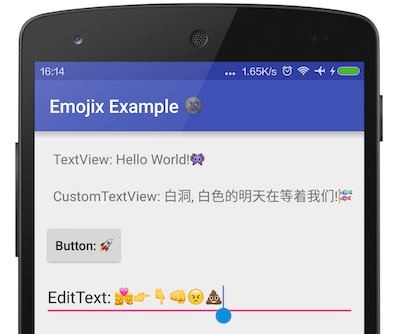
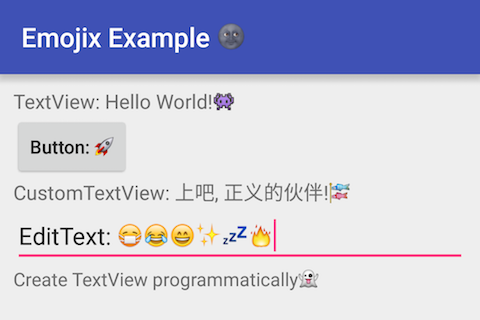
Add wrapView function

diff --git a/lib-emojix/src/main/java/cn/nekocode/emojix/Emojix.java b/lib-emojix/src/main/java/cn/nekocode/emojix/Emojix.java
@@ -17,6 +17,9 @@ package cn.nekocode.emojix;
 
 import android.content.Context;
 import android.view.LayoutInflater;
+import android.view.View;
+import android.view.ViewGroup;
+import android.widget.TextView;
 
 /**
  * @author nekocode (nekocode.cn@gmail.com)
@@ -43,5 +46,38 @@ public class Emojix {
 
     public static android.content.ContextWrapper wrap(Context base) {
         return new ContextWrapper(base);
+    }
+
+    public static void wrapView(View view) {
+        if (view == null) return;
+
+        if (view instanceof TextView) {
+            TextView textView = (TextView) view;
+            if (textView.getTag(R.id.tag_emojix_watcher) == null) {
+                EmojixTextWatcher watcher = new EmojixTextWatcher(textView);
+                textView.addTextChangedListener(watcher);
+
+                textView.setTag(R.id.tag_emojix_watcher, watcher);
+            }
+
+        } else if (view instanceof ViewGroup) {
+            if (view.getTag(R.id.tag_layout_listener) == null) {
+                View.OnLayoutChangeListener listener = new View.OnLayoutChangeListener() {
+                    @Override
+                    public void onLayoutChange(View v, int left, int top, int right, int bottom,
+                                               int oldLeft, int oldTop, int oldRight, int oldBottom) {
+
+                        ViewGroup parentView = (ViewGroup) v;
+                        int len = parentView.getChildCount();
+                        for (int i = 0; i < len; i ++) {
+                            wrapView(parentView.getChildAt(i));
+                        }
+                    }
+                };
+                view.addOnLayoutChangeListener(listener);
+
+                view.setTag(R.id.tag_layout_listener, listener);
+            }
+        }
     }
 }

diff --git a/lib-emojix/src/main/java/cn/nekocode/emojix/EmojixLayoutInflater.java b/lib-emojix/src/main/java/cn/nekocode/emojix/EmojixLayoutInflater.java
@@ -22,7 +22,6 @@ import android.util.AttributeSet;
 import android.view.LayoutInflater;
 import android.view.View;
 import android.view.ViewGroup;
-import android.widget.TextView;
 
 import org.xmlpull.v1.XmlPullParser;
 
@@ -108,34 +107,7 @@ class EmojixLayoutInflater extends LayoutInflater {
 //        boolean useEmojix = a.getBoolean(R.styleable.Emojix_emoji, true);
 //        a.recycle();
 
-        if (view instanceof TextView) {
-            TextView textView = (TextView) view;
-            if (textView.getTag(R.id.tag_emojix_watcher) == null) {
-                EmojixTextWatcher watcher = new EmojixTextWatcher(textView);
-                textView.addTextChangedListener(watcher);
-
-                textView.setTag(R.id.tag_emojix_watcher, watcher);
-            }
-
-        } else if (view instanceof ViewGroup) {
-            if (view.getTag(R.id.tag_layout_listener) == null) {
-                View.OnLayoutChangeListener listener = new View.OnLayoutChangeListener() {
-                    @Override
-                    public void onLayoutChange(View v, int left, int top, int right, int bottom,
-                                               int oldLeft, int oldTop, int oldRight, int oldBottom) {
-
-                        ViewGroup parentView = (ViewGroup) v;
-                        int len = parentView.getChildCount();
-                        for (int i = 0; i < len; i ++) {
-                            onViewCreated(parentView.getChildAt(i), context, attrs);
-                        }
-                    }
-                };
-                view.addOnLayoutChangeListener(listener);
-
-                view.setTag(R.id.tag_layout_listener, listener);
-            }
-        }
+        Emojix.wrapView(view);
 
         return view;
     }

diff --git a/sample/src/main/java/cn/nekocode/emojix/sample/MainActivity.java b/sample/src/main/java/cn/nekocode/emojix/sample/MainActivity.java
@@ -5,6 +5,7 @@ import android.os.Bundle;
 import android.support.v7.app.AppCompatActivity;
 import android.widget.Button;
 import android.widget.EditText;
+import android.widget.LinearLayout;
 import android.widget.TextView;
 
 import cn.nekocode.emojix.Emojix;
@@ -18,20 +19,26 @@ public class MainActivity extends AppCompatActivity {
 
         setTitle("Emojix Example \uD83C\uDF1A");
 
+        LinearLayout linearLayout = (LinearLayout) findViewById(R.id.linearLayout);
         TextView textView = (TextView) findViewById(R.id.textView);
         CustomText customText = (CustomText) findViewById(R.id.textView2);
         EditText editText = (EditText) findViewById(R.id.editText);
         Button button = (Button) findViewById(R.id.button);
 
+        assert linearLayout != null;
         assert textView != null;
         assert customText != null;
         assert editText != null;
         assert button != null;
 
         textView.setText("TextView: Hello World!\uD83D\uDC7E");
-        customText.setText("CustomTextView: 白洞, 白色的明天在等着我们!\uD83C\uDF8F");
-        editText.setText("EditText: \uD83D\uDC8F\uD83D\uDC49\uD83D\uDC47\uD83D\uDC4A\uD83D\uDE20\uD83D\uDCA9");
+        customText.setText("CustomTextView: 上吧, 正义的伙伴!\uD83C\uDF8F");
+        editText.setText("EditText: \uD83D\uDE37\uD83D\uDE02\uD83D\uDE04✨\uD83D\uDCA4\uD83D\uDD25");
         button.setText("Button: \uD83D\uDE80");
+
+        TextView textView2 = new TextView(this);
+        textView2.setText("Create TextView programmatically\uD83D\uDC7B");
+        linearLayout.addView(textView2);
     }
 
     @Override

diff --git a/lib-emojix/src/main/java/cn/nekocode/emojix/EmojiconHandler.java b/lib-emojix/src/main/java/cn/nekocode/emojix/EmojiconHandler.java
@@ -1,4 +1,5 @@
 /*
+ * Copyright 2016 nekocode
  * Copyright 2014 Hieu Rocker
  *
  * Licensed under the Apache License, Version 2.0 (the "License");

diff --git a/README.md b/README.md
@@ -34,9 +34,13 @@ protected void attachBaseContext(Context newBase) {
 }
 ```
 
-Now, everything is OK!
+Now, everything is OK! Anyway, for implementing emoji to the whole application you can add these code to your `BaseActivity`.
 
-Anyway, for implementing emoji to the whole application you can add these code to your `BaseActivity`.
+Note that if it is not working with any views, you can wrap the view manually:
+
+```java
+Emojix.wrapView(view);
+```
 
 ### Thanks
 
